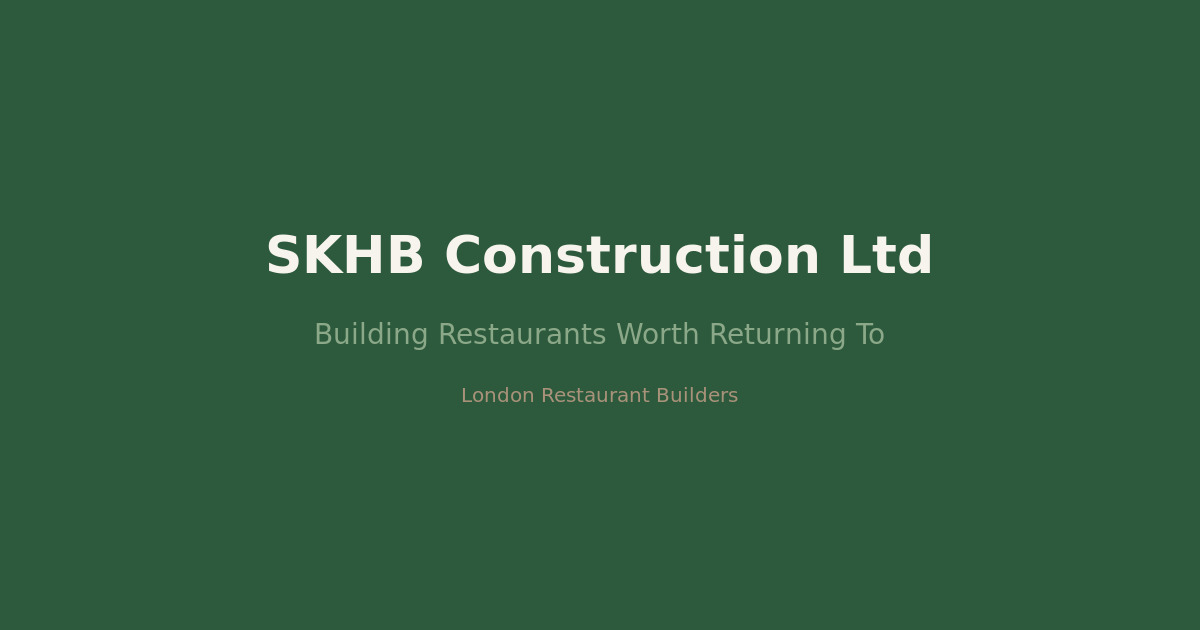
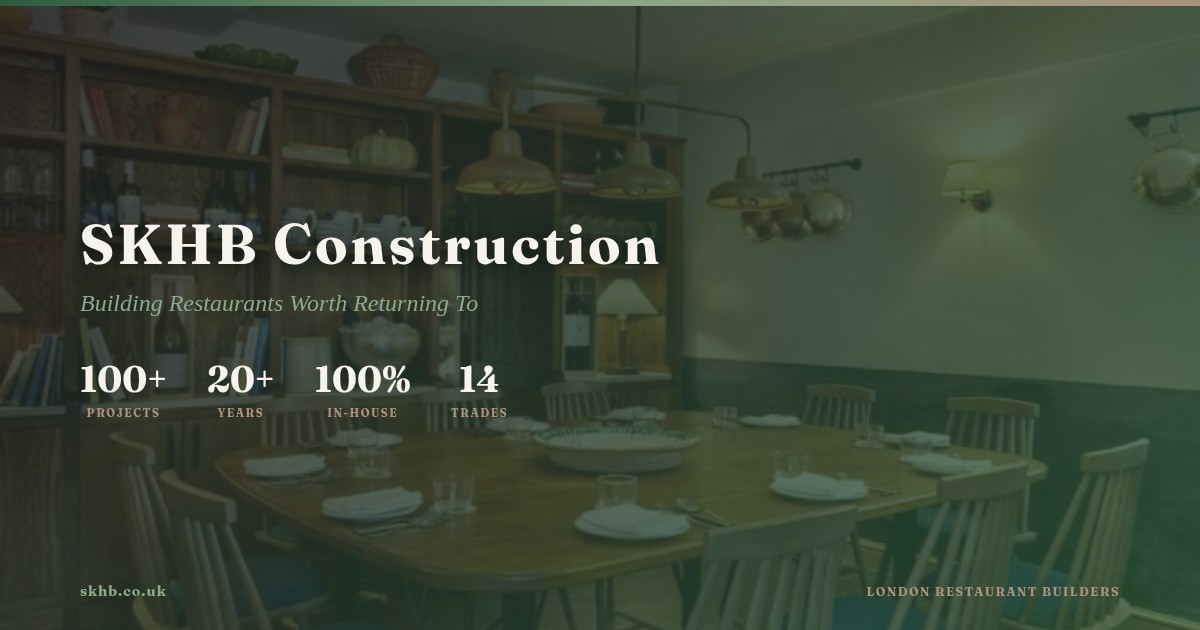
New OG image with project photo background + stronger meta tags and Twitter cards

diff --git a/index.html b/index.html
@@ -6,12 +6,14 @@
 <title>SKHB Construction Ltd — Restaurant Construction &amp; Fit-Out London</title>
 <meta name="description" content="SKHB Construction Ltd — London restaurant builders specialising in full builds, kitchen fit-outs, renovations and maintenance. Kudu Grill, Casa do Frango, Lisboeta and more. On time, on budget.">
 <meta name="keywords" content="restaurant construction London, restaurant fit-out, kitchen fit-out London, restaurant builder, hospitality construction, bar construction London, SKHB Construction">
-<meta property="og:title" content="SKHB Construction Ltd — Building Restaurants Worth Returning To">
-<meta property="og:description" content="London restaurant builders. Full builds, kitchen fit-outs, renovations and maintenance. Exceptional craftsmanship, delivered on time and on budget.">
+<meta property="og:title" content="SKHB Construction | London's Specialist Restaurant Builders">
+<meta property="og:description" content="100+ projects. 20+ years. 14 specialist trades, all in-house. We build London's best restaurants, from shell to service. Kudu Grill, Lisboeta, Casa do Frango and more.">
 <meta property="og:type" content="website">
 <meta property="og:url" content="https://skhb.co.uk/">
 <meta property="og:image" content="https://skhb.co.uk/og-image.jpg">
 <meta name="twitter:card" content="summary_large_image">
+<meta name="twitter:title" content="SKHB Construction | London's Specialist Restaurant Builders">
+<meta name="twitter:description" content="100+ projects. 20+ years. 14 specialist trades, all in-house. We build London's best restaurants, from shell to service.">
 <meta name="twitter:image" content="https://skhb.co.uk/og-image.jpg">
 <link rel="canonical" href="https://skhb.co.uk/">
 <link rel="icon" type="image/png" href="favicon-32.png" sizes="32x32">
